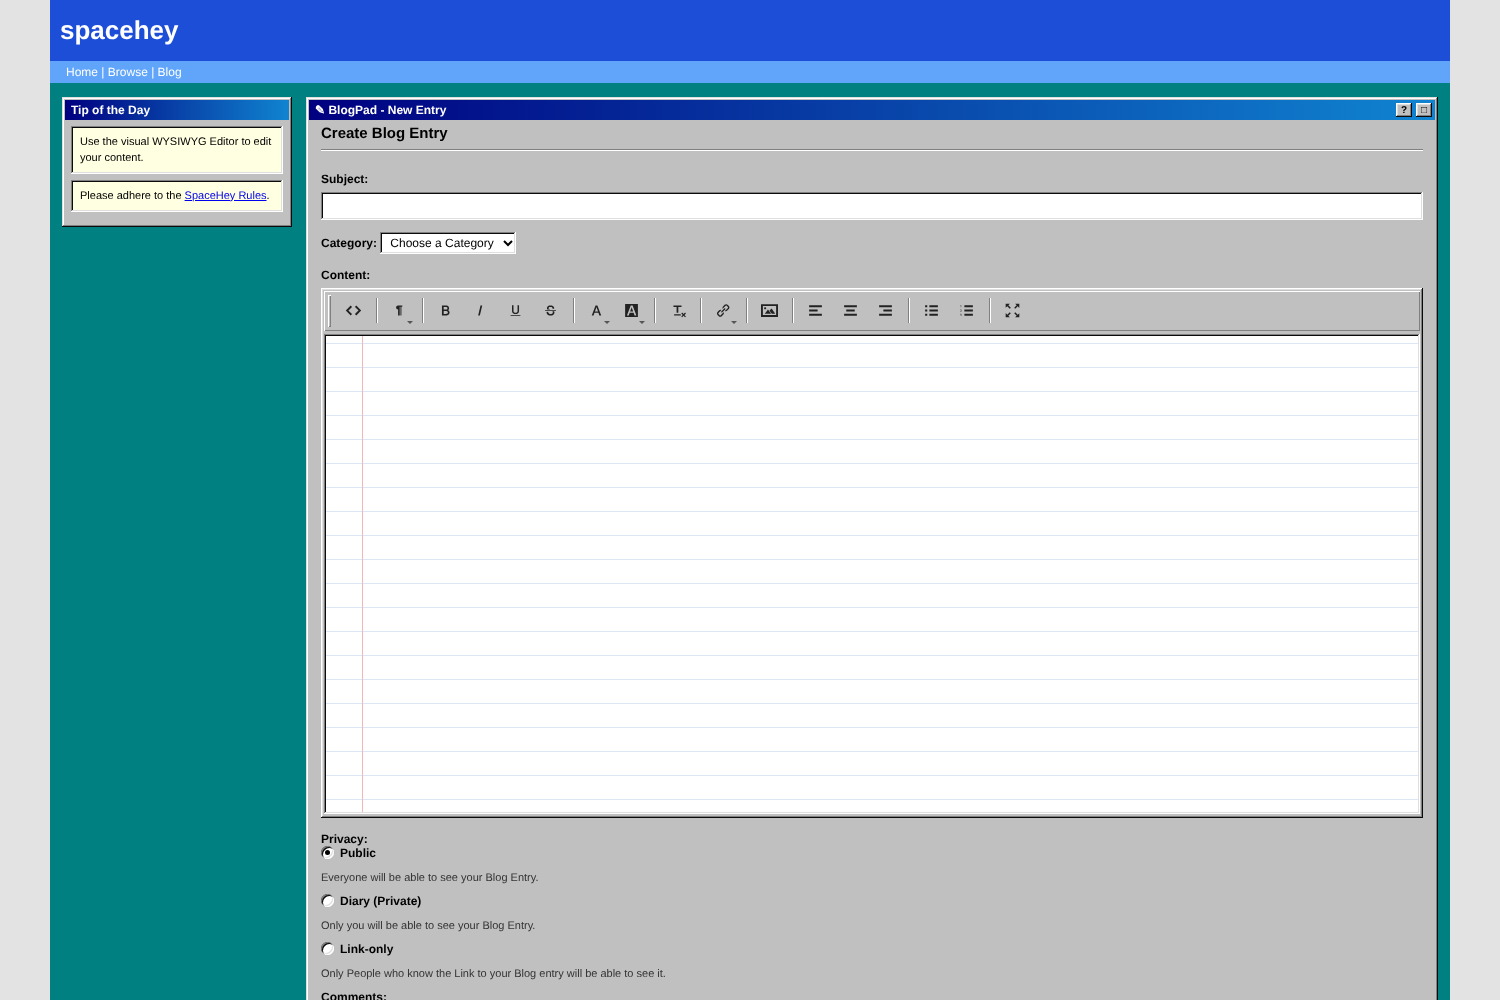
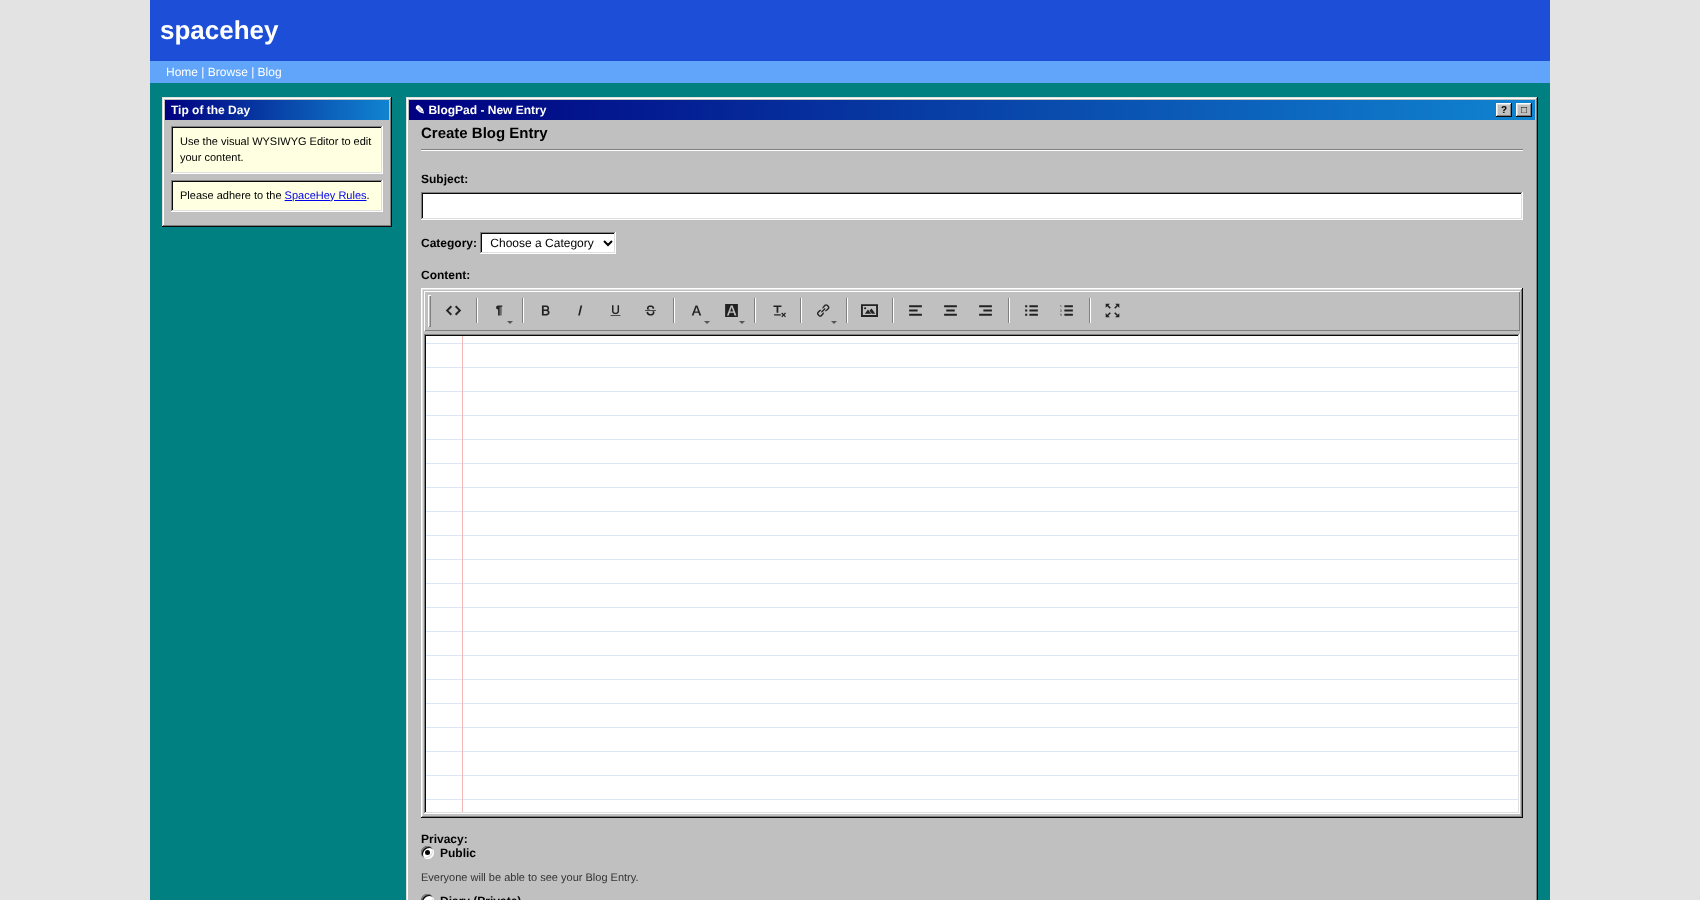
BlogPad 1.1.0: widescreen editor page
The script widens the page itself (same 1400px / 3vw as the home page style)
and stretches any wrapper between <main> and the editor row that caps width.

Claude-Session: https://claude.ai/code/session_01DVrgcPnJkbbwdEJxkuCnuK

diff --git a/spacehey-blogpad.user.js b/spacehey-blogpad.user.js
@@ -1,7 +1,7 @@
 // ==UserScript==
 // @name         SpaceHey BlogPad
 // @namespace    spacehey-overhaul
-// @version      1.0.0
+// @version      1.1.0
 // @description  Turns blog.spacehey.com/edit into a Windows 98 writing app: a real window with focus mode, live word count, and automatic drafts so you never lose a post.
 // @author       Will
 // @license      MIT
@@ -37,6 +37,8 @@
     titleB: '#1084d0',       // title bar gradient, right
     paperLines: true,        // ruled lines in the writing area
     editorHeight: 480,       // writing area height in px
+    pageWidth: 1400,         // max page width in px (same widescreen as the home page style)
+    sideGutter: 3,           // space at the sides, in % of the window width
     autosaveSeconds: 3,
   };
 
@@ -70,6 +72,11 @@
   @font-face { font-family: 'BP Sans'; font-weight: bold;
     src: url('https://unpkg.com/98.css@0.1.21/dist/ms_sans_serif_bold.woff2') format('woff2'); }
 
+  /* Widescreen, same as the home page: grow with the window up to pageWidth. */
+  html.bp-on .container { width: calc(100vw - ${SETTINGS.sideGutter * 2}vw) !important;
+    max-width: ${SETTINGS.pageWidth}px !important; }
+  .bp-stretch { width: 100% !important; max-width: none !important; margin-left: 0 !important;
+    margin-right: 0 !important; float: none !important; box-sizing: border-box; }
   html.bp-on main { background: ${SETTINGS.desktop} !important; padding: 14px 0 22px !important; }
 
   /* Layout: tip window on the left, BlogPad window on the right. */
@@ -392,6 +399,11 @@
       const row = commonAncestor(tip, form);
       if (row && row !== document.body && row.tagName !== 'MAIN') {
         row.classList.add('bp-row');
+        // Anything between <main> and the row that limits the width gets
+        // stretched, so the window really uses the whole page.
+        for (let n = row.parentElement; n && n.tagName !== 'MAIN' && n !== document.body; n = n.parentElement) {
+          n.classList.add('bp-stretch');
+        }
         formCol = childOf(row, form) || form;
         const tipCol = childOf(row, tip);
         if (tipCol) tipCol.classList.add('bp-tipcol');
